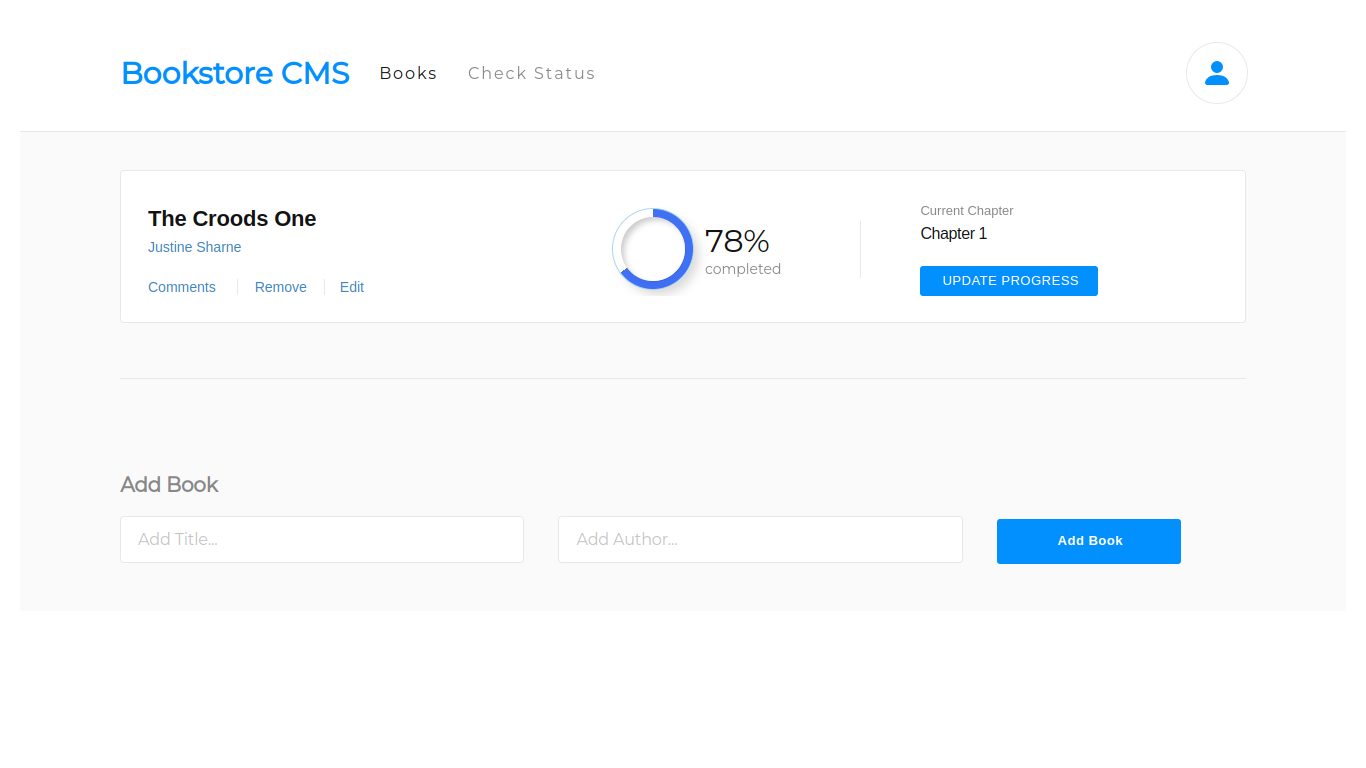
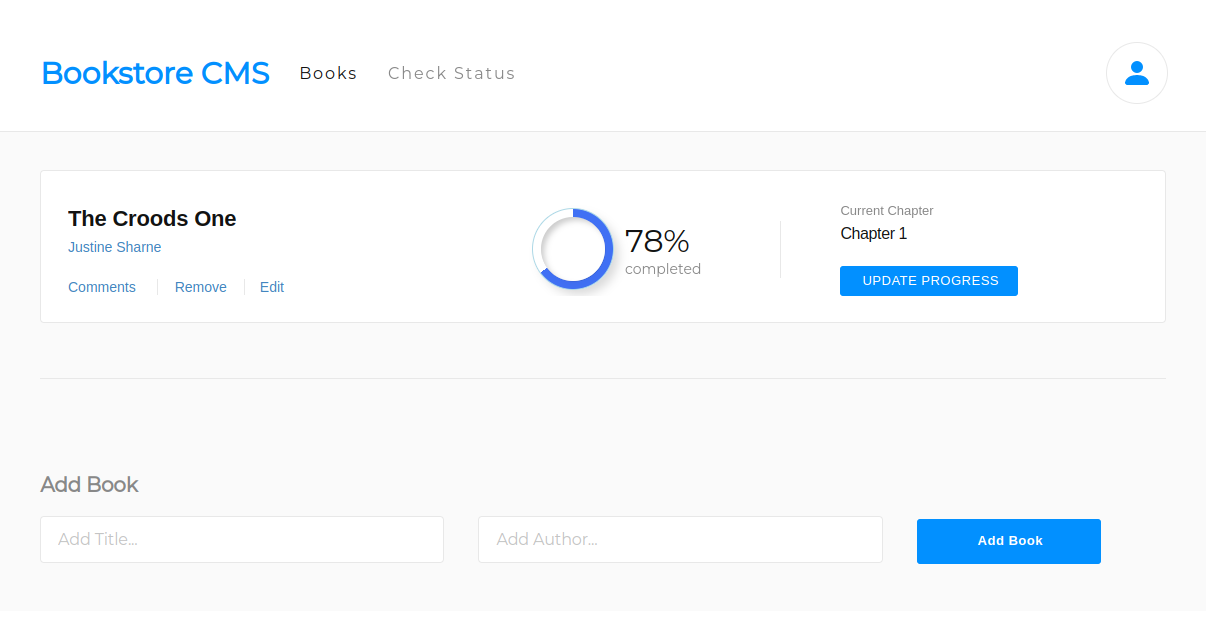
Style cards at tablet size

diff --git a/style.css b/style.css
@@ -330,7 +330,6 @@ body {
   grid-template-columns: auto;
   grid-gap: 88px;
   padding: 30px 24px;
-  /* flex-shrink: 2; */
 }
 
 .card {
@@ -1038,15 +1037,53 @@ body {
   }
 
   .card {
-    /* border-radius: 10px;
-    background-color: #fff;
-    display: flex;
-    flex-direction: column;
-    padding: 1rem;
-    border: 1px solid #dfe1e6;
-    box-shadow: 2px 16px 16px 2px rgba(0, 0, 0, 0.2); */
-    height: auto;
+    padding: 0;
+    width: 100%;
+    transition: transform 0.5s;
   }
+
+  .card-img {
+    width: 100%;
+    max-width: 100%;
+    height: 100%;
+    max-height: 100%;
+    object-fit: contain;
+    border-radius: 10px;
+    transition: none;
+  }
+
+  .card:hover .card-img {
+    transform: scale(1);
+    transition-duration: 250ms;
+    cursor: pointer;
+  }
+
+  .card:hover {
+    transform: scale(0.99);
+    transition-duration: 250ms;
+    cursor: pointer;
+    border: 0.5px solid #7a7a78;
+  }
+/* 
+  .btn {
+    display: flex;
+    justify-content: center;
+    align-items: center;
+    text-align: center;
+    box-shadow: none;
+    width: 50%;
+    margin: 1rem auto;
+  } */
+/* 
+  .tech-list {
+    display: flex;
+    justify-content: center;
+    align-items: center;
+
+    list-style: none;
+    gap: 1rem;
+    /* margin: 0.5rem 1rem; */
+  } */
 
   .card-header {
     font-family: 'Crete Round', sans-serif;
